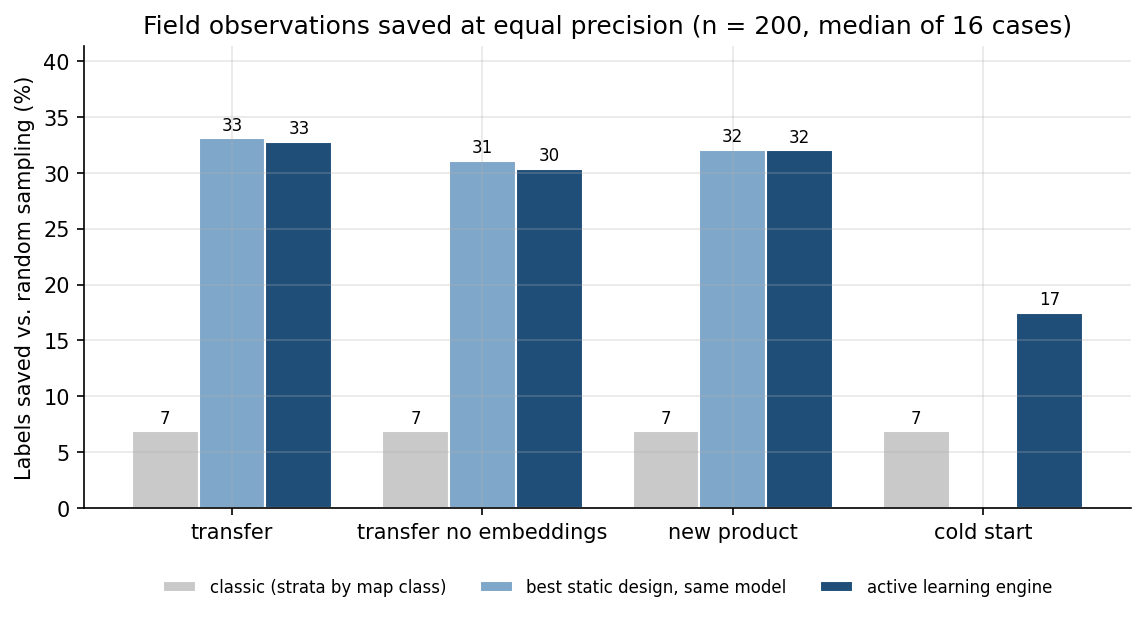
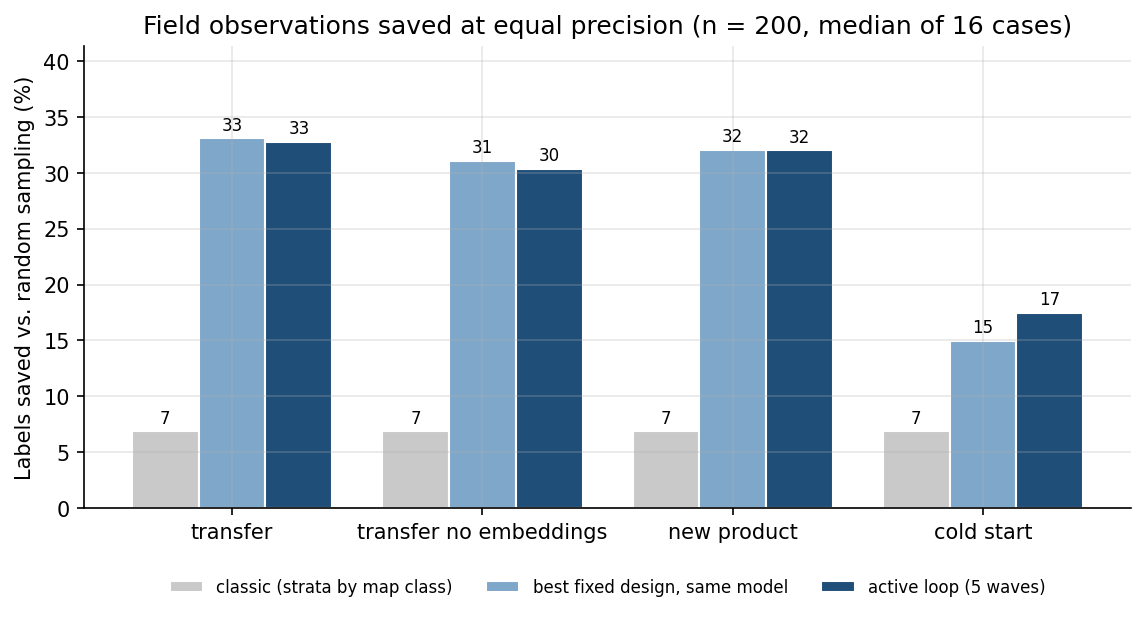
Add a two-phase baseline for the cold start
Without prior data, compare the five-wave loop with a classical two-phase
design: one uniform wave of 20%, a single fit of the same error model, then
one stratified wave. Median saving at n = 200: 17.5% for the loop, 15.0% for
the two-phase design; the loop wins in 12 cases out of 16. All earlier rows of
benchmark.csv are unchanged. Also test the coverage of the engine's intervals.

diff --git a/src/alval/benchmark.py b/src/alval/benchmark.py
@@ -3,6 +3,10 @@
 For each region and product ("case"), the error models are trained on the three other
 regions and the designs are evaluated on the held-out half of the target region. The
 label saving at equal precision is 1 - MSE(design) / MSE(simple random sampling).
+
+Without prior data, the engine is also compared with a classical two-phase design: a
+uniform first phase, one fit of the same error model, then a single stratified second
+phase. It answers the question "does the loop beat a single update?".
 """
 
 import zlib
@@ -12,21 +16,33 @@ import pandas as pd
 
 from . import engine as E
 from . import features as F
-from .data import INDICATORS, PRODUCTS, REGIONS
+from .data import REGIONS
 from .sampling import exact_variance, simulate
 
 STATIC = ["srs+diff", "importance", "neyman", "neyman+diff", "class+diff"]
 N_WAVES, N_STRATA = 5, 5
+FIRST_PHASE = 0.2  # two-phase baseline: share of the sample in the uniform first phase
 
 
 def seed_for(*keys, base=20260821):
     return (base + zlib.crc32("|".join(map(str, keys)).encode())) % 2**32
 
 
-def run_campaigns(make_models, truth, n, n_rep, rng, n_waves=N_WAVES):
+def wave_sizes(n, n_waves=N_WAVES):
+    """n split into n_waves waves of (nearly) equal size."""
+    return np.diff(np.linspace(0, n, n_waves + 1).round().astype(int))
+
+
+def two_phase_sizes(n, first=FIRST_PHASE):
+    """A uniform first phase, then everything else in one stratified wave."""
+    n1 = int(round(first * n))
+    return np.array([n1, n - n1])
+
+
+def run_campaigns(make_models, truth, n, n_rep, rng, sizes=None):
     """Simulate n_rep campaigns; returns estimates, estimated variances and the
     Rao-Blackwellised variance (mean of exact wave variances) for each product."""
-    sizes = np.diff(np.linspace(0, n, n_waves + 1).round().astype(int))
+    sizes = wave_sizes(n) if sizes is None else np.asarray(sizes)
     names = list(truth)
     est = {k: np.zeros(n_rep) for k in names}
     var = {k: np.zeros(n_rep) for k in names}
@@ -87,6 +103,9 @@ def run_case(points, region, product, sizes=(100, 200, 500), n_rep=1000):
             add(scenario, "engine", rb[product].mean(), est[product], var[product])
         est, var, rb = run_campaigns(lambda: [E.cold_start(product, X_cold)], {product: y}, n, n_rep, rng)
         add("cold_start", "engine", rb[product].mean(), est[product], var[product])
+        est, var, rb = run_campaigns(lambda: [E.cold_start(product, X_cold)], {product: y}, n, n_rep, rng,
+                                     sizes=two_phase_sizes(n))
+        add("cold_start", "two_phase", rb[product].mean(), est[product], var[product])
     auc = {k: _auc(y, f) for k, f in {**priors, "indicators": f_old}.items()}
     return rows, {"region": region, "product": product, "theta": theta, **{f"auc_{k}": v for k, v in auc.items()}}
 

diff --git a/scripts/run_benchmark.py b/scripts/run_benchmark.py
@@ -1,20 +1,19 @@
 """Run the full benchmark (16 cases) and save the results to reports/results/.
 
-    python scripts/run_benchmark.py --replicates 1000 --workers 8
+    python scripts/run_benchmark.py --replicates 1000 --workers 10
 """
 
 import argparse
-import sys
+import time
 from concurrent.futures import ProcessPoolExecutor
 from pathlib import Path
 
 import pandas as pd
 
-ROOT = Path(__file__).resolve().parents[1]
-sys.path.insert(0, str(ROOT / "src"))
+from alval.benchmark import headline, run_case
+from alval.data import PRODUCTS, REGIONS, load_points
 
-from alval.benchmark import headline, run_case  # noqa: E402
-from alval.data import PRODUCTS, REGIONS, load_points  # noqa: E402
+ROOT = Path(__file__).resolve().parents[1]
 
 
 def _case(args):
@@ -27,6 +26,7 @@ def main():
     parser.add_argument("--replicates", type=int, default=1000)
     parser.add_argument("--workers", type=int, default=4)
     args = parser.parse_args()
+    start = time.perf_counter()
 
     jobs = [(r, p, args.replicates) for r in REGIONS for p in PRODUCTS]
     with ProcessPoolExecutor(max_workers=args.workers) as pool:
@@ -39,6 +39,7 @@ def main():
     results.to_csv(dest / "benchmark.csv", index=False)
     models.to_csv(dest / "error_models.csv", index=False)
     print((100 * headline(results)).round(1).to_string())
+    print(f"done in {(time.perf_counter() - start) / 60:.1f} min with {args.workers} workers")
 
 
 if __name__ == "__main__":

diff --git a/tests/test_engine.py b/tests/test_engine.py
@@ -48,3 +48,24 @@ def test_cold_start_first_wave_is_uniform(population):
     y, f, _ = population
     model = E.cold_start("p", np.column_stack([f, f ** 2]))
     assert np.ptp(model.predict()) == pytest.approx(0)
+
+
+def test_engine_intervals_cover(population):
+    """The 95% intervals of the engine must cover the true rate about 95% of the time."""
+    y, f, classes = population
+    rng = np.random.default_rng(4)
+    hits = []
+    for _ in range(400):
+        eng = E.ActiveEngine([E.from_prior("p", f, classes)])
+        for _ in range(4):
+            units = eng.propose(50, rng)
+            eng.record({"p": y[units]})
+        low, high = eng.estimate()["p"]["ci"]
+        hits.append(low <= y.mean() <= high)
+    assert 0.91 <= np.mean(hits) <= 0.98
+
+
+def test_two_phase_sizes_add_up():
+    from alval.benchmark import two_phase_sizes, wave_sizes
+    assert two_phase_sizes(200).tolist() == [40, 160]
+    assert wave_sizes(200).sum() == 200
